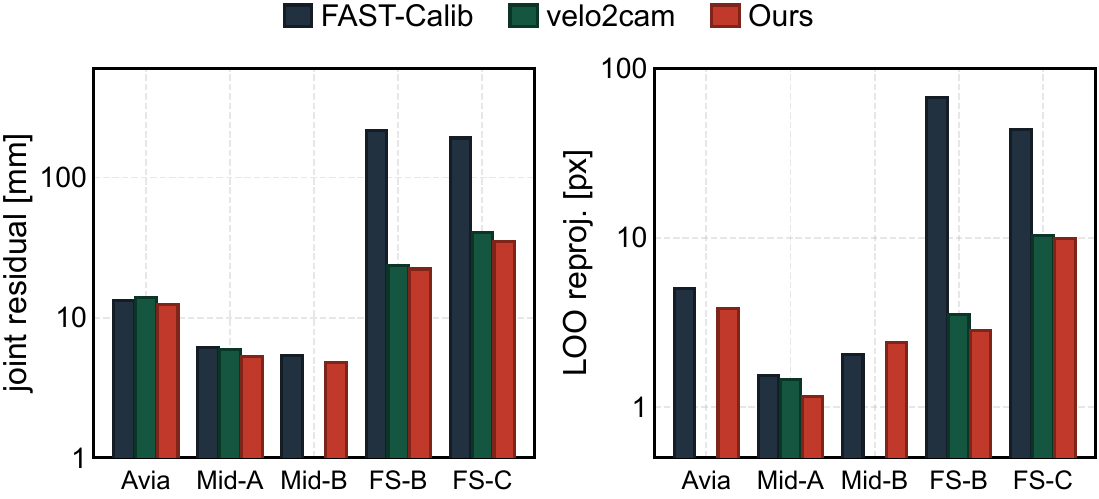
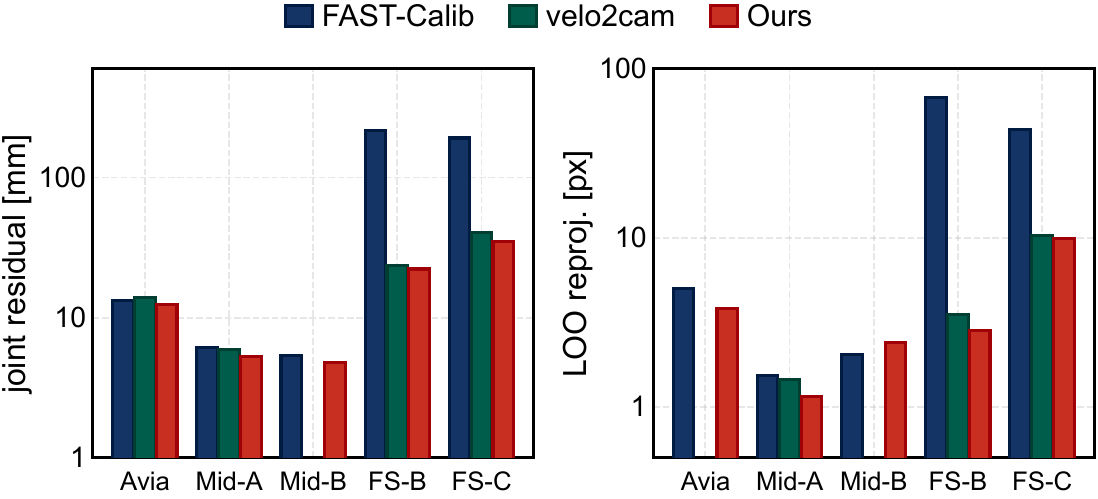
Follow the abstract in the contribution list and refresh the figures
Drops the runtime bullet, restates the three contributions in the wording of
the paper abstract, plainer wording for the tool description, and regenerates
the figures with the paper's new Nature-style colour palette.

diff --git a/README.md b/README.md
@@ -14,10 +14,11 @@
 
 **P²Calib** calibrates a LiDAR and a camera from the four-hole board. Accuracy in this pipeline is limited by the LiDAR-side hole centers, which degrade under sparse angular coverage and mixed pixels. P²Calib removes this bottleneck with two **pattern priors** that the board's CAD model already specifies:
 
-- **Radius prior** fixes the fitting radius to the CAD value, removing the center–radius degeneracy of short-arc circle fitting.
-- **Layout prior** projects the four centers onto the known rigid rectangle, reducing the per-capture unknowns from twelve to four.
-- **Results**: 90% / 82% lower joint residual and 96% / 77% lower held-out reprojection error on two real solid-state LiDAR datasets; 3.5–6.9× lower hole-center error in simulation.
-- **Cost**: 4.5–6.3 ms per cloud. No initial extrinsic guess required.
+- **Radius prior.** The known hole radius is incorporated as a fitting constraint, which prevents the center estimates from degrading under sparse angular coverage.
+- **Layout prior.** Building on the improved hole estimates, the rigid rectangular layout of the four holes is enforced as a global consistency constraint, which corrects the residual errors across holes.
+- **Interactive tool.** Both priors are integrated into a calibration tool that provides a complete extrinsic calibration pipeline.
+
+Experiments on simulated and real datasets show that P²Calib lowers the joint registration residual by 90% and 82% and the held-out reprojection error by 96% and 77% over the baseline.
 
 <div align="center">
 
@@ -65,9 +66,9 @@ The area-array LiDAR has a 120°×50° field of view, 0.33° resolution in both 
 
 </div>
 
-*Batch detection and joint solving: sample rail on the left; camera and point-cloud views on top with the ROI, fitted rings and hole centers overlaid; reprojection view and run log below; workflow checklist on the right. Full recording: [`p2calib_gui.mp4`](./README/p2calib_gui.mp4).*
+*Batch detection and joint solving: the scene list on the left; the camera and point-cloud views on top, with the region of interest, the fitted hole rings and the hole centers drawn on them; the reprojection view and the message log below. Full recording: [`p2calib_gui.mp4`](./README/p2calib_gui.mp4).*
 
-The workbench exposes every intermediate result, reports the layout disagreement and the registration residual separately for each capture, solves the included samples jointly, and exports the extrinsic, reprojection images, colored clouds and a run manifest.
+The tool shows the result of every intermediate step, reports the layout disagreement and the registration residual separately for each capture, solves the selected scenes jointly, and writes out the extrinsic, the reprojection images and the colored point clouds.
 
 ## Method
 
@@ -87,7 +88,7 @@ The workbench exposes every intermediate result, reports the layout disagreement
 
 *(**A**) A short arc (blue) permits many center–radius pairs (orange). (**B**) Sector samples constrain the center at radius r−δ; crosses mark rejected returns. (**C**) The CAD layout couples the four independent centers (orange) into the projected centers (red).*
 
-Boundary candidates are drawn from an annulus and reduced to one representative per azimuth sector, then each center is solved by Huber-weighted Gauss–Newton against the fixed radius, where a single bias δ absorbs the inward rim erosion. The four refined centers are finally projected onto the CAD rectangle. Both priors act only on the LiDAR branch, so P²Calib is a drop-in replacement for the extraction stage of any four-hole pipeline.
+Boundary candidates are drawn from an annulus and reduced to one representative per azimuth sector, then each center is solved by Huber-weighted Gauss–Newton against the fixed radius, where a single bias δ absorbs the inward rim erosion. The four refined centers are finally projected onto the CAD rectangle. Both priors act only on the LiDAR branch; the camera processing and the closed-form registration are unchanged, so the method applies to any four-hole calibration pipeline.
 
 ## Results
 
@@ -117,7 +118,7 @@ Joint residual [mm] and leave-one-out reprojection error [px], lower is better. 
 
 </div>
 
-*Joint residual (**left**) and LOO error (**right**) on Avia, two Mid-360 sessions and the two FS datasets. Gains are smaller on scanning LiDARs, which already cover the hole rims densely.*
+*Joint residual (**left**) and LOO error (**right**) on Avia, two Mid-360 sessions and the two FS datasets. The improvement is smaller on the scanning LiDARs, which sample the hole rims more densely.*
 
 In simulation the hole-center error falls from 6.8–14.7 mm to 1.6–3.9 mm across all standoff groups, and the LOO reprojection error from 2.61 to 0.40 px on single-frame clouds and from 1.51 to 0.23 px on accumulated clouds.
 
